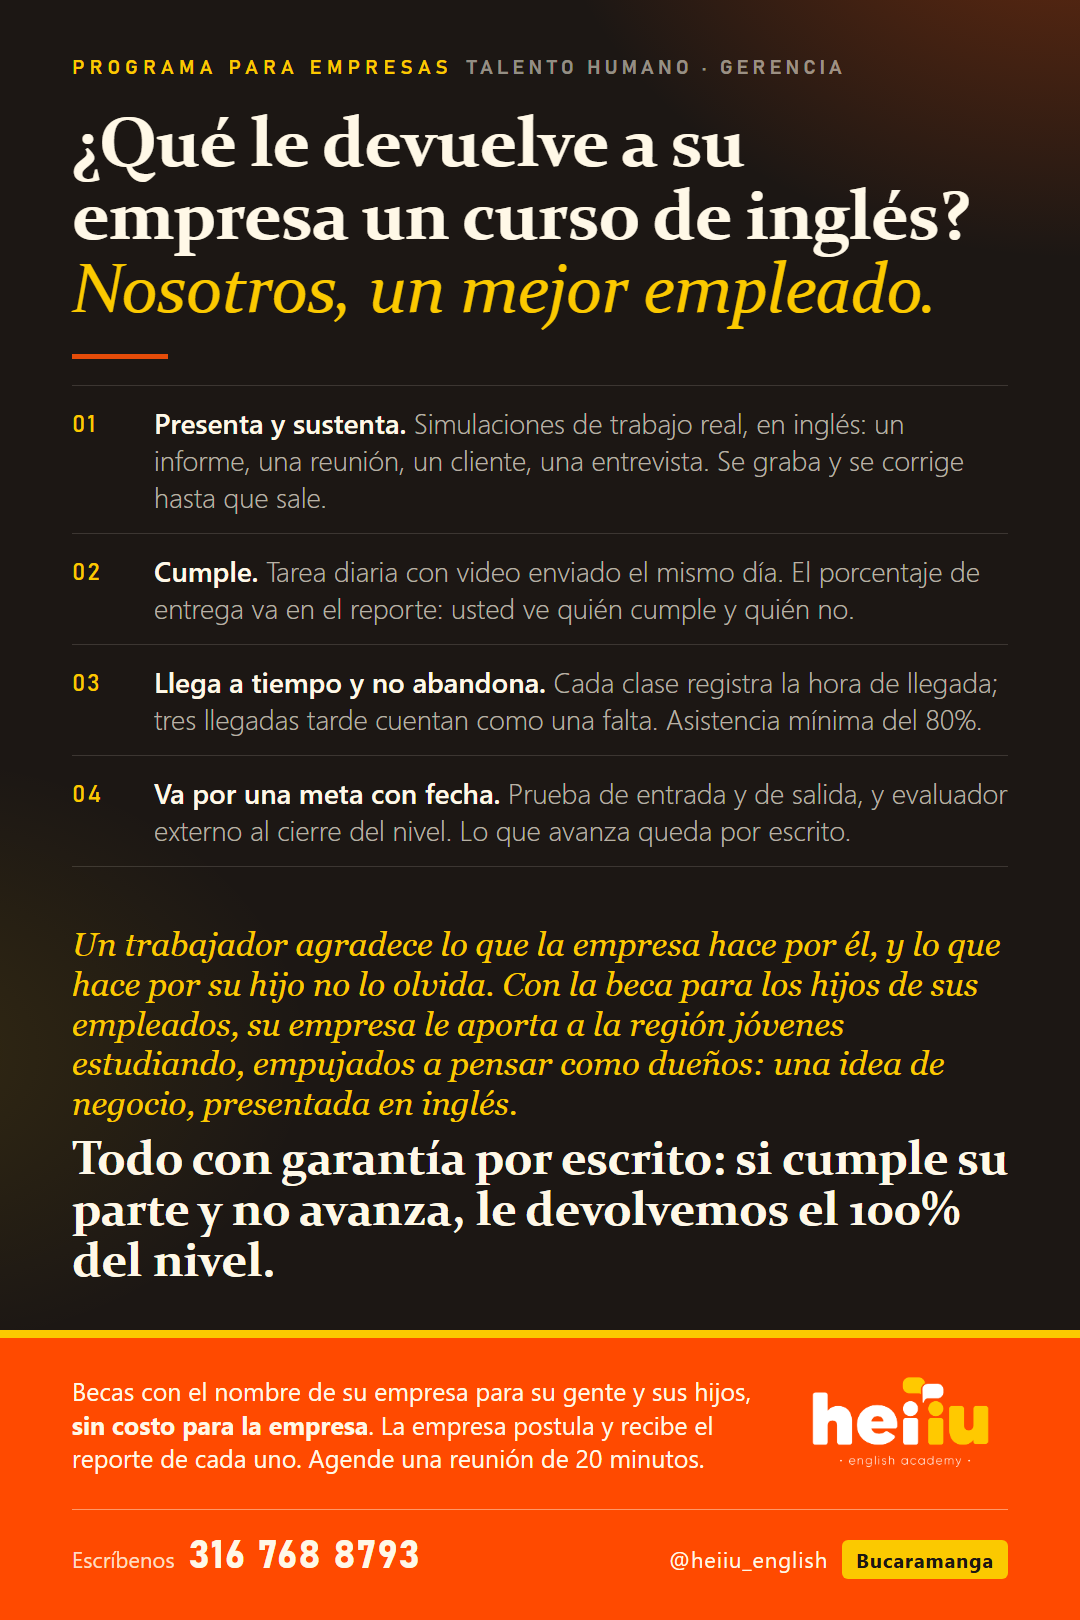
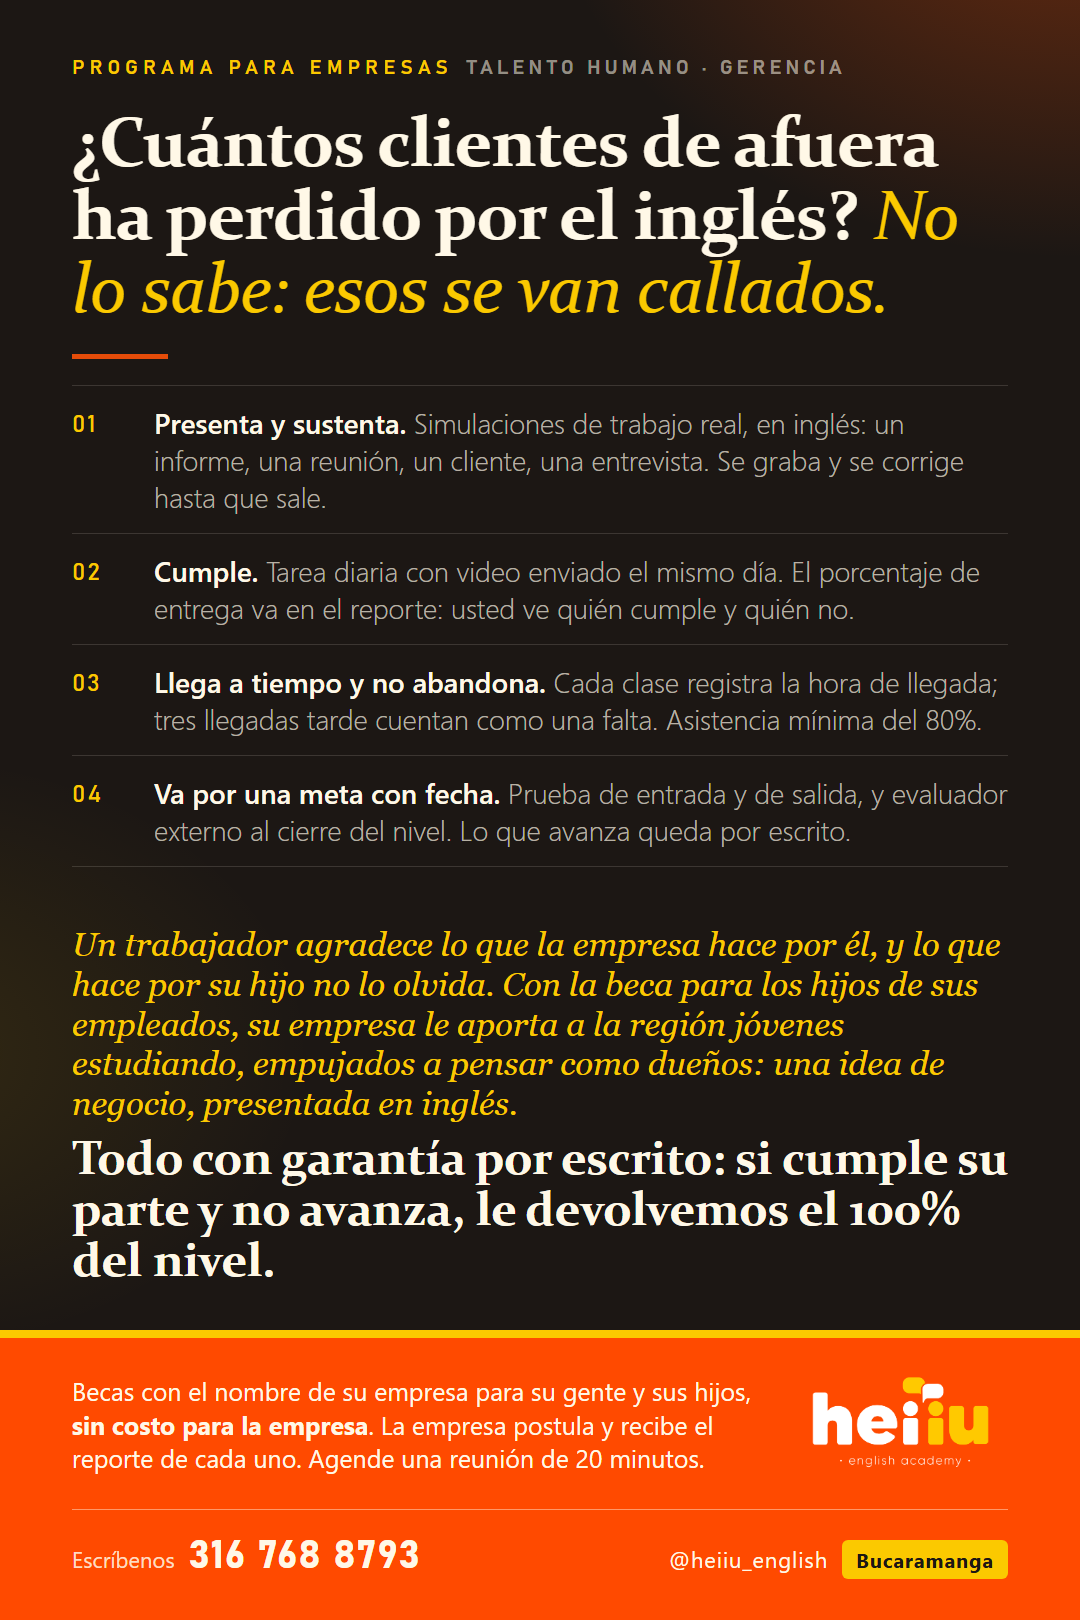
Pieza empresas: titular 'cuantos clientes de afuera ha perdido por el ingles; no lo sabe, esos se van callados' (idea del gerente de alianzas y gerencia)

Changed region(s): [[0.0611, 0.0617, 0.9167, 0.216]]

diff --git a/generadores/comercial/gen_piezas_conciencia.py b/generadores/comercial/gen_piezas_conciencia.py
@@ -241,7 +241,7 @@ PIEZAS = {
         band_px=290),
     'EMPRESAS_FRENTE': dict(   # tesis del gerente de alianzas (25/10/2026): le devolvemos un mejor empleado, y se lo demostramos; de usted
         compact=True, label='PROGRAMA PARA EMPRESAS', sub='TALENTO HUMANO · GERENCIA',
-        h1='¿Qué le devuelve a su empresa un curso de inglés? <em>Nosotros, un mejor empleado.</em>',
+        h1='¿Cuántos clientes de afuera ha perdido por el inglés? <em>No lo sabe: esos se van callados.</em>',
         st=[('<b>Presenta y sustenta.</b> Simulaciones de trabajo real, en inglés: un informe, una reunión, un cliente, una entrevista. Se graba y se corrige hasta que sale.'),
             ('<b>Cumple.</b> Tarea diaria con video enviado el mismo día. El porcentaje de entrega va en el reporte: usted ve quién cumple y quién no.'),
             ('<b>Llega a tiempo y no abandona.</b> Cada clase registra la hora de llegada; tres llegadas tarde cuentan como una falta. Asistencia mínima del 80%.'),
@@ -269,7 +269,7 @@ PIEZAS = {
         band_px=290),
     'EMPRESAS_CORTA': dict(   # version corta de una sola cara (decision de gerencia 25/10/2026): tesis del gerente de alianzas + competencias medibles + hijos/region + garantia + beca sin costo; de usted
         compact=True, label='PROGRAMA PARA EMPRESAS', sub='TALENTO HUMANO · GERENCIA',
-        h1='¿Qué le devuelve a su empresa un curso de inglés? <em>Nosotros, un mejor empleado.</em>',
+        h1='¿Cuántos clientes de afuera ha perdido por el inglés? <em>No lo sabe: esos se van callados.</em>',
         st=[('<b>Presenta y sustenta.</b> Simulaciones de trabajo real, en inglés: un informe, una reunión, un cliente, una entrevista. Se graba y se corrige hasta que sale.'),
             ('<b>Cumple.</b> Tarea diaria con video enviado el mismo día. El porcentaje de entrega va en el reporte: usted ve quién cumple y quién no.'),
             ('<b>Llega a tiempo y no abandona.</b> Cada clase registra la hora de llegada; tres llegadas tarde cuentan como una falta. Asistencia mínima del 80%.'),
